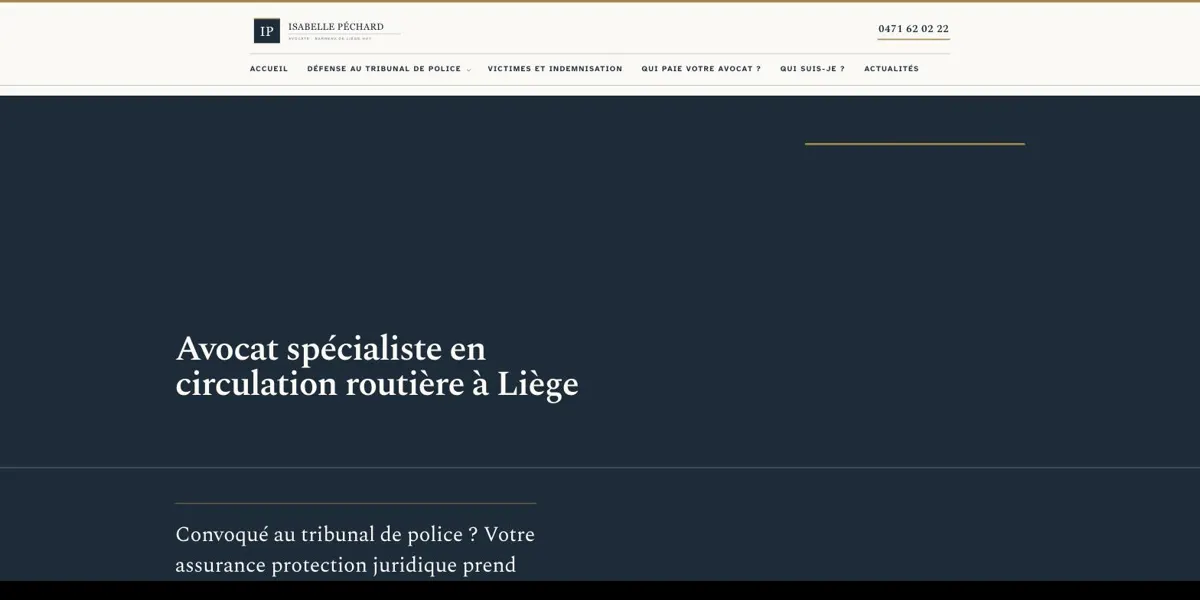
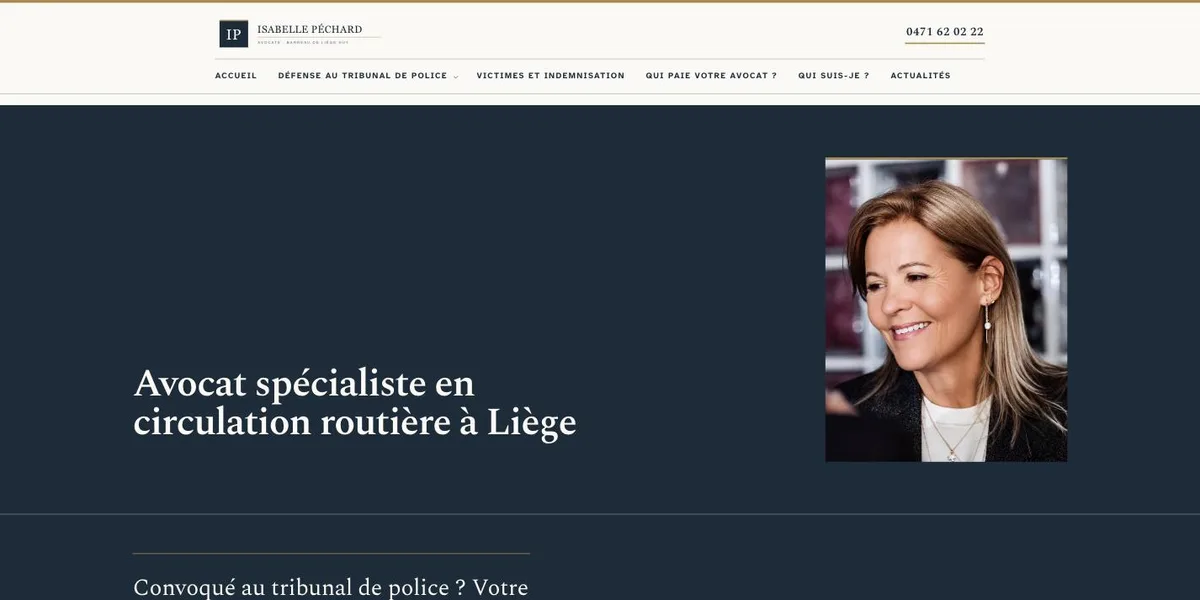
Textes plus modestes et capture Isabelle Péchard avec photo (#5)
* Corrige positionnement, ajoute pages légales, polices auto-hébergées

Claude-Session: https://claude.ai/code/session_01HVgBYMspc4XQ9Y9z8QMz22

* Refait l'accueil : 387 mots, preuve en haut, barre d'appel mobile

Claude-Session: https://claude.ai/code/session_01HVgBYMspc4XQ9Y9z8QMz22

* Fusionne /formule et /services avec redirections, met à jour liens et sitemap

Claude-Session: https://claude.ai/code/session_01HVgBYMspc4XQ9Y9z8QMz22

* Ajoute l'adresse dans les mentions légales

Claude-Session: https://claude.ai/code/session_01HVgBYMspc4XQ9Y9z8QMz22

* Simplifie la durée de conservation dans la politique de confidentialité

Claude-Session: https://claude.ai/code/session_01HVgBYMspc4XQ9Y9z8QMz22

* Reformule la durée de conservation

Claude-Session: https://claude.ai/code/session_01HVgBYMspc4XQ9Y9z8QMz22

* Politique de confidentialité en format liste, sans phrases rédigées

Claude-Session: https://claude.ai/code/session_01HVgBYMspc4XQ9Y9z8QMz22

* Accueil : retire les visuels Bab Akoul, chiffre × 7, titres sans « on »

Claude-Session: https://claude.ai/code/session_01HVgBYMspc4XQ9Y9z8QMz22

* Refonte des pages services, références et à propos : versions courtes, mobile, captures et graphique

Claude-Session: https://claude.ai/code/session_01HVgBYMspc4XQ9Y9z8QMz22

* Marketing externe : un ou deux jours par semaine, sur devis ; retrait du prix de 990 € partout

Claude-Session: https://claude.ai/code/session_01HVgBYMspc4XQ9Y9z8QMz22
[…]

diff --git a/index.html b/index.html
@@ -38,7 +38,7 @@ a:focus-visible,button:focus-visible{outline:2px solid #C9A96E;outline-offset:4p
 .line{transition:padding-left .3s ease}
 .line:hover{padding-left:12px}
 </style>
-<script type="application/ld+json">{"@context": "https://schema.org", "@graph": [{"@type": "ProfessionalService", "@id": "https://szmaj.be/#entreprise", "name": "François Szmaj, responsable marketing externe", "url": "https://szmaj.be/", "image": "https://szmaj.be/francois-szmaj-portrait-2026.jpg", "logo": {"@type": "ImageObject", "url": "https://szmaj.be/logo.png", "width": 512, "height": 512}, "telephone": "+32484705920", "email": "francois@szmaj.be", "priceRange": "390 € - 4 900 €", "areaServed": [{"@type": "City", "name": "Liège"}, {"@type": "City", "name": "Bruxelles"}, {"@type": "AdministrativeArea", "name": "Wallonie"}, {"@type": "Country", "name": "Belgique"}], "address": {"@type": "PostalAddress", "streetAddress": "Rue Sainte-Véronique 24", "postalCode": "4000", "addressLocality": "Liège", "addressRegion": "Liège", "addressCountry": "BE"}, "vatID": "BE1040280557", "sameAs": ["https://www.linkedin.com/in/francoisszmaj/", "https://www.optimum.be/fr/francois-szmaj/"], "description": "Responsable marketing externe des PME à Liège : site internet, référencement Google et IA, réseaux sociaux, publicité, automatisation et formation IA.", "hasOfferCatalog": {"@type": "OfferCatalog", "name": "Services", "itemListElement": [{"@type": "Offer", "itemOffered": {"@type": "Service", "name": "Audit SEO et visibilité IA", "url": "https://szmaj.be/audit-seo"}}, {"@type": "Offer", "itemOffered": {"@type": "Service", "name": "Référencement Google et IA", "url": "https://szmaj.be/consultant-seo-liege"}}, {"@type": "Offer", "itemOffered": {"@type": "Service", "name": "Création de site internet", "url": "https://szmaj.be/creation-site-internet-liege"}}, {"@type": "Offer", "itemOffered": {"@type": "Service", "name": "Automatisation marketing", "url": "https://szmaj.be/automatisation-marketing"}}, {"@type": "Offer", "itemOffered": {"@type": "Service", "name": "Formation IA en entreprise", "url": "https://szmaj.be/formation-ia-entreprise"}}, {"@type": "Offer", "itemOffered": {"@type": "Service", "name": "Responsable marketing externalisé", "url": "https://szmaj.be/responsable-marketing-externalise"}}]}, "founder": {"@id": "https://szmaj.be/#francois-szmaj"}}, {"@type": "Person", "@id": "https://szmaj.be/#francois-szmaj", "name": "François Szmaj", "jobTitle": "Responsable marketing externe", "url": "https://szmaj.be/a-propos", "image": {"@type": "ImageObject", "url": "https://szmaj.be/francois-szmaj-portrait-2026.jpg", "caption": "François Szmaj"}, "alumniOf": {"@type": "CollegeOrUniversity", "name": "HEC Liège"}, "worksFor": {"@id": "https://szmaj.be/#entreprise"}, "sameAs": ["https://www.linkedin.com/in/francoisszmaj/", "https://www.optimum.be/fr/francois-szmaj/"], "knowsAbout": ["Stratégie marketing", "SEO", "Référencement local", "Référencement dans les IA", "Création de site internet", "Automatisation marketing", "Formation à l’IA", "Marketing B2B"]}, {"@type": "WebSite", "@id": "https://szmaj.be/#site", "url": "https://szmaj.be/", "name": "François Szmaj", "alternateName": "szmaj.be", "inLanguage": "fr-BE", "publisher": {"@id": "https://szmaj.be/#entreprise"}}]}</script>
+<script type="application/ld+json">{"@context": "https://schema.org", "@graph": [{"@type": "ProfessionalService", "@id": "https://szmaj.be/#entreprise", "name": "François Szmaj, responsable marketing externe", "url": "https://szmaj.be/", "image": "https://szmaj.be/francois-szmaj-portrait-2026.jpg", "logo": {"@type": "ImageObject", "url": "https://szmaj.be/logo.png", "width": 512, "height": 512}, "telephone": "+32484705920", "email": "francois@szmaj.be", "priceRange": "390 € - 4 900 €", "areaServed": [{"@type": "City", "name": "Liège"}, {"@type": "City", "name": "Bruxelles"}, {"@type": "AdministrativeArea", "name": "Wallonie"}, {"@type": "Country", "name": "Belgique"}], "address": {"@type": "PostalAddress", "streetAddress": "Rue Sainte-Véronique 24", "postalCode": "4000", "addressLocality": "Liège", "addressRegion": "Liège", "addressCountry": "BE"}, "vatID": "BE1040280557", "sameAs": ["https://www.linkedin.com/in/francoisszmaj/", "https://www.optimum.be/fr/francois-szmaj/"], "description": "Responsable marketing externe pour PME à Liège : site internet, référencement Google et IA, réseaux sociaux, publicité, automatisation et formation IA.", "hasOfferCatalog": {"@type": "OfferCatalog", "name": "Services", "itemListElement": [{"@type": "Offer", "itemOffered": {"@type": "Service", "name": "Audit SEO et visibilité IA", "url": "https://szmaj.be/audit-seo"}}, {"@type": "Offer", "itemOffered": {"@type": "Service", "name": "Référencement Google et IA", "url": "https://szmaj.be/consultant-seo-liege"}}, {"@type": "Offer", "itemOffered": {"@type": "Service", "name": "Création de site internet", "url": "https://szmaj.be/creation-site-internet-liege"}}, {"@type": "Offer", "itemOffered": {"@type": "Service", "name": "Automatisation marketing", "url": "https://szmaj.be/automatisation-marketing"}}, {"@type": "Offer", "itemOffered": {"@type": "Service", "name": "Formation IA en entreprise", "url": "https://szmaj.be/formation-ia-entreprise"}}, {"@type": "Offer", "itemOffered": {"@type": "Service", "name": "Responsable marketing externalisé", "url": "https://szmaj.be/responsable-marketing-externalise"}}]}, "founder": {"@id": "https://szmaj.be/#francois-szmaj"}}, {"@type": "Person", "@id": "https://szmaj.be/#francois-szmaj", "name": "François Szmaj", "jobTitle": "Responsable marketing externe", "url": "https://szmaj.be/a-propos", "image": {"@type": "ImageObject", "url": "https://szmaj.be/francois-szmaj-portrait-2026.jpg", "caption": "François Szmaj"}, "alumniOf": {"@type": "CollegeOrUniversity", "name": "HEC Liège"}, "worksFor": {"@id": "https://szmaj.be/#entreprise"}, "sameAs": ["https://www.linkedin.com/in/francoisszmaj/", "https://www.optimum.be/fr/francois-szmaj/"], "knowsAbout": ["Stratégie marketing", "SEO", "Référencement local", "Référencement dans les IA", "Création de site internet", "Automatisation marketing", "Formation à l’IA", "Marketing B2B"]}, {"@type": "WebSite", "@id": "https://szmaj.be/#site", "url": "https://szmaj.be/", "name": "François Szmaj", "alternateName": "szmaj.be", "inLanguage": "fr-BE", "publisher": {"@id": "https://szmaj.be/#entreprise"}}]}</script>
 <script type="application/ld+json">{"@context": "https://schema.org", "@type": "WebSite", "name": "François Szmaj", "url": "https://szmaj.be/", "inLanguage": "fr-BE", "publisher": {"@id": "https://szmaj.be/#entreprise"}}</script>
 <style id="dd-css">
 nav[aria-label="Navigation principale"]{position:relative;z-index:40}
@@ -213,8 +213,8 @@ h1{font-size:clamp(40px,5vw,74px)!important;line-height:1.05!important}
 <div style="max-width: 1280px; margin: 0 auto; padding: 40px var(--g) 0; display: flex; flex-wrap: wrap; align-items: flex-end; gap: 40px 64px">
 <div style="flex: 1 1 520px; min-width: 0; padding-bottom: clamp(48px, 7vw, 100px); display: flex; flex-direction: column; gap: 26px">
 <div class="eyebrow">Liège · Bruxelles · Marrakech</div>
-<h1 style="margin: 0; font-family: 'Source Serif 4', serif; font-weight: 500; font-size: clamp(40px, 5.4vw, 76px); line-height: 1.05; letter-spacing: -1.5px; color: #F4EEE3">Le responsable marketing externe <em class="ac">des PME à Liège</em></h1>
-<p style="margin: 0; max-width: 520px; font-size: 18px; color: #D9D2C3">Je deviens le responsable marketing de votre PME, de deux jours par mois à deux jours par semaine. Je m’occupe du site, de Google, des réseaux sociaux et de la publicité. Chaque mois, vous recevez les chiffres.</p>
+<h1 style="margin: 0; font-family: 'Source Serif 4', serif; font-weight: 500; font-size: clamp(40px, 5.4vw, 76px); line-height: 1.05; letter-spacing: -1.5px; color: #F4EEE3">Responsable marketing externe <em class="ac">pour PME à Liège</em></h1>
+<p style="margin: 0; max-width: 520px; font-size: 18px; color: #D9D2C3">Je deviens le responsable marketing de votre PME, de deux jours par mois à deux jours par semaine. Je m’occupe du site, de Google, des réseaux sociaux et de la publicité.</p>
 <div style="display: flex; flex-wrap: wrap; align-items: center; gap: 12px 32px">
 <a class="btn-gold" href="/contact#rdv" style="background: #C9A96E; color: #113B30; text-decoration: none; font-size: 13px; font-weight: 500; letter-spacing: 2px; padding: 18px 30px; border-radius: 2px">PRENDRE RENDEZ-VOUS</a>
 <a class="lnk" href="tel:+32484705920" style="color: #F4EEE3; text-decoration-color: rgba(201,169,110,0.8)">0484 70 59 20</a>
@@ -282,7 +282,7 @@ h1{font-size:clamp(40px,5vw,74px)!important;line-height:1.05!important}
 <div style="flex: 1 1 440px; min-width: 0; display: flex; flex-direction: column; gap: 18px; max-width: 620px">
 <h2 class="h2">Votre responsable marketing</h2>
 <p style="margin: 0; color: #3F5049">François Szmaj, diplômé d’HEC Liège. Pendant deux ans, j’ai développé le marché belge d’une plateforme française d’investissement participatif, jusqu’à en devenir le responsable marketing Belgique.</p>
-<p style="margin: 0; color: #3F5049">Depuis 2026, je fais ce métier dans des PME à Liège, à Bruxelles et à Marrakech.</p>
+<p style="margin: 0; color: #3F5049">Mes premiers clients sont à Liège, à Bruxelles et à Marrakech.</p>
 <div style="display: flex; flex-wrap: wrap; gap: 4px 28px"><a class="lnk" href="/a-propos" style="color: #113B30; text-decoration-color: #B8925A">Mon parcours</a><a class="lnk" href="https://www.linkedin.com/in/francoisszmaj/" target="_blank" rel="noopener" style="color: #113B30; text-decoration-color: #B8925A">LinkedIn</a></div>
 </div>
 <div style="flex: 0 0 auto; width: clamp(150px, 20vw, 240px); aspect-ratio: 1 / 1; border-radius: 50%; overflow: hidden; background: #113B30">
@@ -309,7 +309,7 @@ h1{font-size:clamp(40px,5vw,74px)!important;line-height:1.05!important}
 <span style="width: 38px; height: 38px; border-radius: 7px; border: 1px solid rgba(201,169,110,0.6); display: flex; align-items: center; justify-content: center; font-family: 'Source Serif 4', serif; font-weight: 600; font-size: 15px; color: #F4EEE3">FS</span>
 <span style="font-family: 'Source Serif 4', serif; font-weight: 600; font-size: 18px; color: #F4EEE3">François Szmaj</span>
 </div>
-<span>Responsable marketing externe des PME à Liège.</span>
+<span>Responsable marketing externe à Liège.</span>
 <span>Liège · Bruxelles · Marrakech</span>
 </div>
 <div style="flex: 1 1 200px; display: flex; flex-direction: column; gap: 10px">

diff --git a/consultant-seo-liege.html b/consultant-seo-liege.html
@@ -172,7 +172,7 @@ em.ac{font-family:'Instrument Serif','Source Serif 4',serif;font-style:italic;fo
 <div class="crumbs"><a href="/">Accueil</a> › <a href="/agence">L’agence</a> › Référencement</div>
 <div class="eyebrow">Référencement Google et IA · Liège</div>
 <h1>Remonter sur Google <em class="ac">et dans les IA</em></h1>
-<p class="lead">Je corrige votre site, j’écris les pages qui manquent et je travaille votre fiche Google. Chaque mois, vous recevez les positions et les clics.</p>
+<p class="lead">Je corrige votre site, j’écris les pages qui manquent et je travaille votre fiche Google. Un bilan mensuel des positions et des clics.</p>
 <div class="ctas"><a class="btn" href="/contact?offre=seo#rdv">PRENDRE RENDEZ-VOUS</a><span class="price-chip">990 € HTVA / mois</span><a class="lnk" href="tel:+32484705920" style="color:#F4EEE3;text-decoration-color:rgba(201,169,110,.8)">0484 70 59 20</a></div>
 </div></div>
 </section>
@@ -195,7 +195,7 @@ em.ac{font-family:'Instrument Serif','Source Serif 4',serif;font-style:italic;fo
 <span style="width: 38px; height: 38px; border-radius: 7px; border: 1px solid rgba(201,169,110,0.6); display: flex; align-items: center; justify-content: center; font-family: 'Source Serif 4', serif; font-weight: 600; font-size: 15px; color: #F4EEE3">FS</span>
 <span style="font-family: 'Source Serif 4', serif; font-weight: 600; font-size: 18px; color: #F4EEE3">François Szmaj</span>
 </div>
-<span>Responsable marketing externe des PME à Liège.</span>
+<span>Responsable marketing externe à Liège.</span>
 <span>Liège · Bruxelles · Marrakech</span>
 </div>
 <div style="flex: 1 1 200px; display: flex; flex-direction: column; gap: 10px">

diff --git a/a-propos.html b/a-propos.html
@@ -201,7 +201,7 @@ em.ac{font-family:'Instrument Serif','Source Serif 4',serif;font-style:italic;fo
 <span style="width: 38px; height: 38px; border-radius: 7px; border: 1px solid rgba(201,169,110,0.6); display: flex; align-items: center; justify-content: center; font-family: 'Source Serif 4', serif; font-weight: 600; font-size: 15px; color: #F4EEE3">FS</span>
 <span style="font-family: 'Source Serif 4', serif; font-weight: 600; font-size: 18px; color: #F4EEE3">François Szmaj</span>
 </div>
-<span>Responsable marketing externe des PME à Liège.</span>
+<span>Responsable marketing externe à Liège.</span>
 <span>Liège · Bruxelles · Marrakech</span>
 </div>
 <div style="flex: 1 1 200px; display: flex; flex-direction: column; gap: 10px">

diff --git a/agence.html b/agence.html
@@ -193,7 +193,7 @@ em.ac{font-family:'Instrument Serif','Source Serif 4',serif;font-style:italic;fo
 <span style="width: 38px; height: 38px; border-radius: 7px; border: 1px solid rgba(201,169,110,0.6); display: flex; align-items: center; justify-content: center; font-family: 'Source Serif 4', serif; font-weight: 600; font-size: 15px; color: #F4EEE3">FS</span>
 <span style="font-family: 'Source Serif 4', serif; font-weight: 600; font-size: 18px; color: #F4EEE3">François Szmaj</span>
 </div>
-<span>Responsable marketing externe des PME à Liège.</span>
+<span>Responsable marketing externe à Liège.</span>
 <span>Liège · Bruxelles · Marrakech</span>
 </div>
 <div style="flex: 1 1 200px; display: flex; flex-direction: column; gap: 10px">

diff --git a/audit-seo.html b/audit-seo.html
@@ -195,7 +195,7 @@ em.ac{font-family:'Instrument Serif','Source Serif 4',serif;font-style:italic;fo
 <span style="width: 38px; height: 38px; border-radius: 7px; border: 1px solid rgba(201,169,110,0.6); display: flex; align-items: center; justify-content: center; font-family: 'Source Serif 4', serif; font-weight: 600; font-size: 15px; color: #F4EEE3">FS</span>
 <span style="font-family: 'Source Serif 4', serif; font-weight: 600; font-size: 18px; color: #F4EEE3">François Szmaj</span>
 </div>
-<span>Responsable marketing externe des PME à Liège.</span>
+<span>Responsable marketing externe à Liège.</span>
 <span>Liège · Bruxelles · Marrakech</span>
 </div>
 <div style="flex: 1 1 200px; display: flex; flex-direction: column; gap: 10px">

diff --git a/automatisation-marketing.html b/automatisation-marketing.html
@@ -195,7 +195,7 @@ em.ac{font-family:'Instrument Serif','Source Serif 4',serif;font-style:italic;fo
 <span style="width: 38px; height: 38px; border-radius: 7px; border: 1px solid rgba(201,169,110,0.6); display: flex; align-items: center; justify-content: center; font-family: 'Source Serif 4', serif; font-weight: 600; font-size: 15px; color: #F4EEE3">FS</span>
 <span style="font-family: 'Source Serif 4', serif; font-weight: 600; font-size: 18px; color: #F4EEE3">François Szmaj</span>
 </div>
-<span>Responsable marketing externe des PME à Liège.</span>
+<span>Responsable marketing externe à Liège.</span>
 <span>Liège · Bruxelles · Marrakech</span>
 </div>
 <div style="flex: 1 1 200px; display: flex; flex-direction: column; gap: 10px">

diff --git a/confidentialite.html b/confidentialite.html
@@ -198,7 +198,7 @@ em.ac{font-family:'Instrument Serif','Source Serif 4',serif;font-style:italic;fo
 <span style="width: 38px; height: 38px; border-radius: 7px; border: 1px solid rgba(201,169,110,0.6); display: flex; align-items: center; justify-content: center; font-family: 'Source Serif 4', serif; font-weight: 600; font-size: 15px; color: #F4EEE3">FS</span>
 <span style="font-family: 'Source Serif 4', serif; font-weight: 600; font-size: 18px; color: #F4EEE3">François Szmaj</span>
 </div>
-<span>Responsable marketing externe des PME à Liège.</span>
+<span>Responsable marketing externe à Liège.</span>
 <span>Liège · Bruxelles · Marrakech</span>
 </div>
 <div style="flex: 1 1 200px; display: flex; flex-direction: column; gap: 10px">

diff --git a/contact.html b/contact.html
@@ -252,7 +252,7 @@ em.ac{font-family:'Instrument Serif','Source Serif 4',serif;font-style:italic;fo
 <span style="width: 38px; height: 38px; border-radius: 7px; border: 1px solid rgba(201,169,110,0.6); display: flex; align-items: center; justify-content: center; font-family: 'Source Serif 4', serif; font-weight: 600; font-size: 15px; color: #F4EEE3">FS</span>
 <span style="font-family: 'Source Serif 4', serif; font-weight: 600; font-size: 18px; color: #F4EEE3">François Szmaj</span>
 </div>
-<span>Responsable marketing externe des PME à Liège.</span>
+<span>Responsable marketing externe à Liège.</span>
 <span>Liège · Bruxelles · Marrakech</span>
 </div>
 <div style="flex: 1 1 200px; display: flex; flex-direction: column; gap: 10px">

diff --git a/creation-site-internet-liege.html b/creation-site-internet-liege.html
@@ -196,7 +196,7 @@ em.ac{font-family:'Instrument Serif','Source Serif 4',serif;font-style:italic;fo
 <span style="width: 38px; height: 38px; border-radius: 7px; border: 1px solid rgba(201,169,110,0.6); display: flex; align-items: center; justify-content: center; font-family: 'Source Serif 4', serif; font-weight: 600; font-size: 15px; color: #F4EEE3">FS</span>
 <span style="font-family: 'Source Serif 4', serif; font-weight: 600; font-size: 18px; color: #F4EEE3">François Szmaj</span>
 </div>
-<span>Responsable marketing externe des PME à Liège.</span>
+<span>Responsable marketing externe à Liège.</span>
 <span>Liège · Bruxelles · Marrakech</span>
 </div>
 <div style="flex: 1 1 200px; display: flex; flex-direction: column; gap: 10px">

diff --git a/formation-ia-entreprise.html b/formation-ia-entreprise.html
@@ -195,7 +195,7 @@ em.ac{font-family:'Instrument Serif','Source Serif 4',serif;font-style:italic;fo
 <span style="width: 38px; height: 38px; border-radius: 7px; border: 1px solid rgba(201,169,110,0.6); display: flex; align-items: center; justify-content: center; font-family: 'Source Serif 4', serif; font-weight: 600; font-size: 15px; color: #F4EEE3">FS</span>
 <span style="font-family: 'Source Serif 4', serif; font-weight: 600; font-size: 18px; color: #F4EEE3">François Szmaj</span>
 </div>
-<span>Responsable marketing externe des PME à Liège.</span>
+<span>Responsable marketing externe à Liège.</span>
 <span>Liège · Bruxelles · Marrakech</span>
 </div>
 <div style="flex: 1 1 200px; display: flex; flex-direction: column; gap: 10px">

diff --git a/mentions-legales.html b/mentions-legales.html
@@ -199,7 +199,7 @@ em.ac{font-family:'Instrument Serif','Source Serif 4',serif;font-style:italic;fo
 <span style="width: 38px; height: 38px; border-radius: 7px; border: 1px solid rgba(201,169,110,0.6); display: flex; align-items: center; justify-content: center; font-family: 'Source Serif 4', serif; font-weight: 600; font-size: 15px; color: #F4EEE3">FS</span>
 <span style="font-family: 'Source Serif 4', serif; font-weight: 600; font-size: 18px; color: #F4EEE3">François Szmaj</span>
 </div>
-<span>Responsable marketing externe des PME à Liège.</span>
+<span>Responsable marketing externe à Liège.</span>
 <span>Liège · Bruxelles · Marrakech</span>
 </div>
 <div style="flex: 1 1 200px; display: flex; flex-direction: column; gap: 10px">

diff --git a/references.html b/references.html
@@ -199,7 +199,7 @@ em.ac{font-family:'Instrument Serif','Source Serif 4',serif;font-style:italic;fo
 <span style="width: 38px; height: 38px; border-radius: 7px; border: 1px solid rgba(201,169,110,0.6); display: flex; align-items: center; justify-content: center; font-family: 'Source Serif 4', serif; font-weight: 600; font-size: 15px; color: #F4EEE3">FS</span>
 <span style="font-family: 'Source Serif 4', serif; font-weight: 600; font-size: 18px; color: #F4EEE3">François Szmaj</span>
 </div>
-<span>Responsable marketing externe des PME à Liège.</span>
+<span>Responsable marketing externe à Liège.</span>
 <span>Liège · Bruxelles · Marrakech</span>
 </div>
 <div style="flex: 1 1 200px; display: flex; flex-direction: column; gap: 10px">
